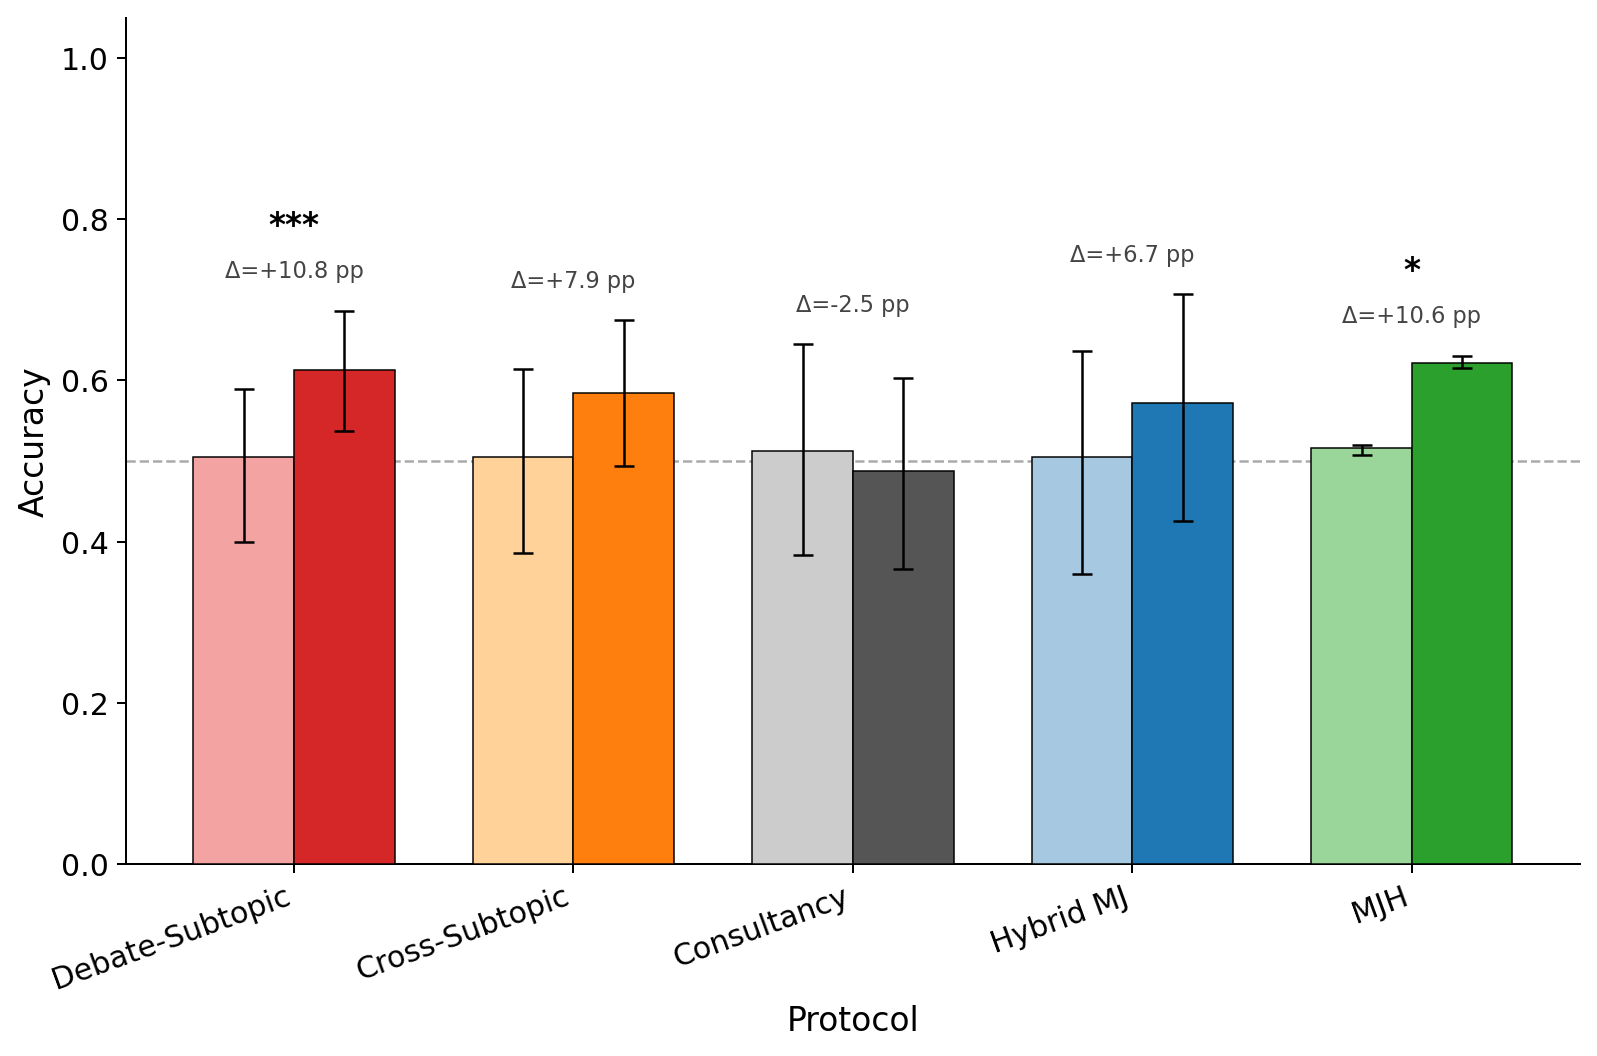
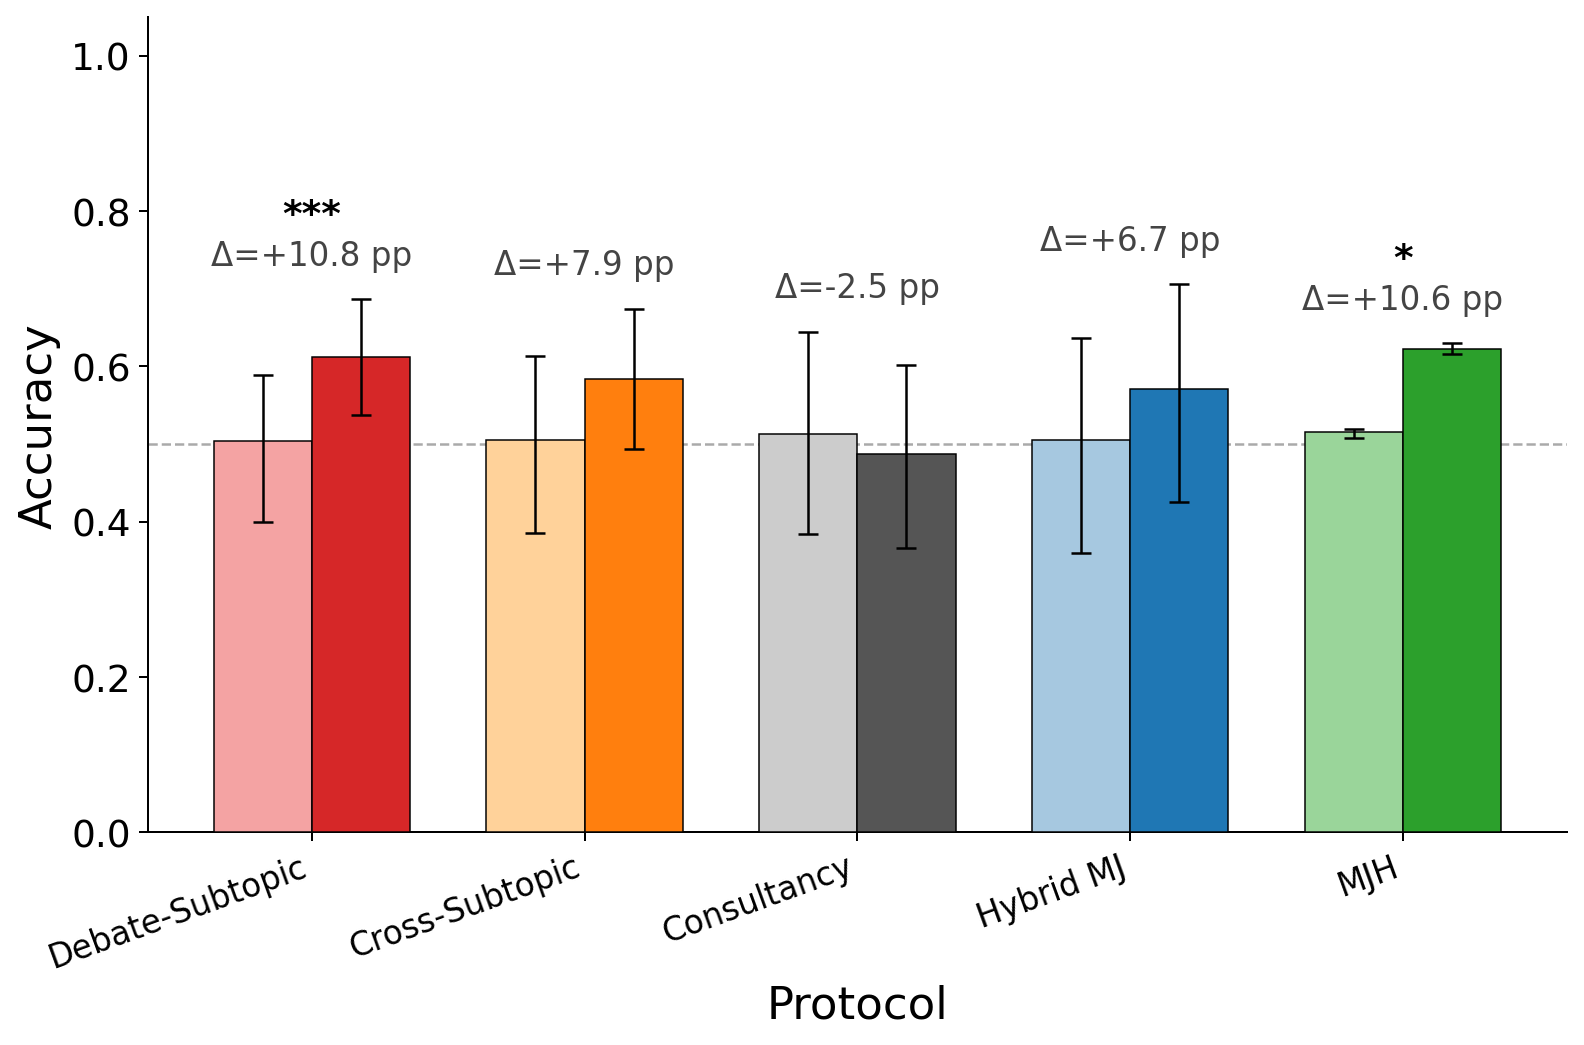
Small aethetic modification

diff --git a/src/make_figures.py b/src/make_figures.py
@@ -35,7 +35,7 @@ plt.rcParams.update(
         "axes.titlesize": 18,
         "axes.labelsize": "large",
         "ytick.labelsize": 15,
-        "xtick.labelsize": 15,
+        "xtick.labelsize": 13,
         # colour-consistent theme
     }
 )
@@ -327,8 +327,8 @@ def plot_headline(rows):
     ax.set_xticklabels(display_labels, rotation=20, ha="right")
     ax.set_ylim(0, 1.05)
     ax.set_xlim(-0.6, len(labels) - 0.4)
-    ax.set_xlabel("Protocol")
-    ax.set_ylabel("Accuracy")
+    ax.set_xlabel("Protocol", fontsize = 18)
+    ax.set_ylabel("Accuracy", fontsize = 18)
     ax.spines["top"].set_visible(False)
     ax.spines["right"].set_visible(False)
 
